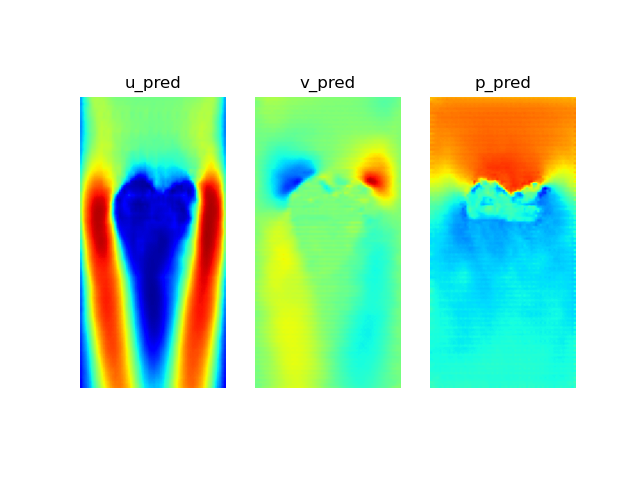
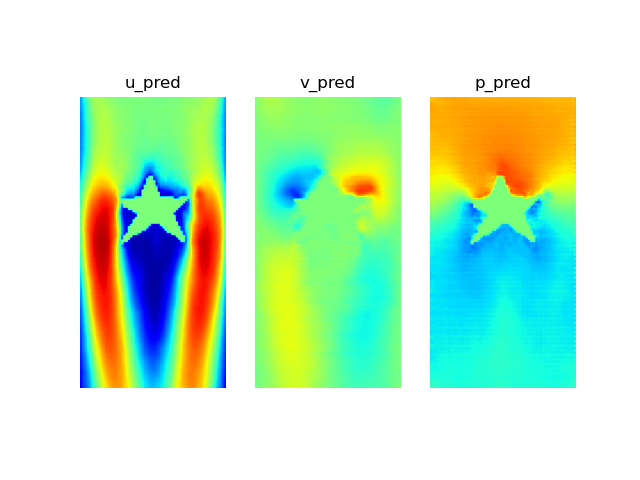
better visualization

diff --git a/pred.py b/pred.py
@@ -200,7 +200,7 @@ def discriminator_model(img_size=(128,64,3)):
 tf.keras.backend.clear_session()
 input_shape = (128,64,1)
 generator = generator_model((128,64,1), output_branch = 1)
-plot_model(generator,"pix2flows_generative_model.png",show_shapes=True, show_layer_names=True)
+# plot_model(generator,"pix2flows_generative_model.png",show_shapes=True, show_layer_names=True)
 generator.summary()
 
 
@@ -209,7 +209,7 @@ generator.summary()
 
 discriminator = discriminator_model()
 discriminator.summary()
-plot_model(discriminator,"pix2flows_discriminator_model.png",show_shapes=True)
+# plot_model(discriminator,"pix2flows_discriminator_model.png",show_shapes=True)
 
 
 # In[43]:
@@ -482,7 +482,7 @@ def custom_prediction(model, test_input, save=True):
     # print("u_true: "+str(u_true.shape))
     # print("u_pred: "+str(u_pred.shape))
 
-    display_list = [u_pred[:,:,0], v_pred[:,:,0], p_pred[:,:,0]]
+    display_list = [tf.multiply(u_pred[:,:,0],test_input[:,:,0]), tf.multiply(v_pred[:,:,0],test_input[:,:,0]), tf.multiply(p_pred[:,:,0],test_input[:,:,0])]
     title = ["u_pred", "v_pred", "p_pred"]
 
     for i in range(3):
